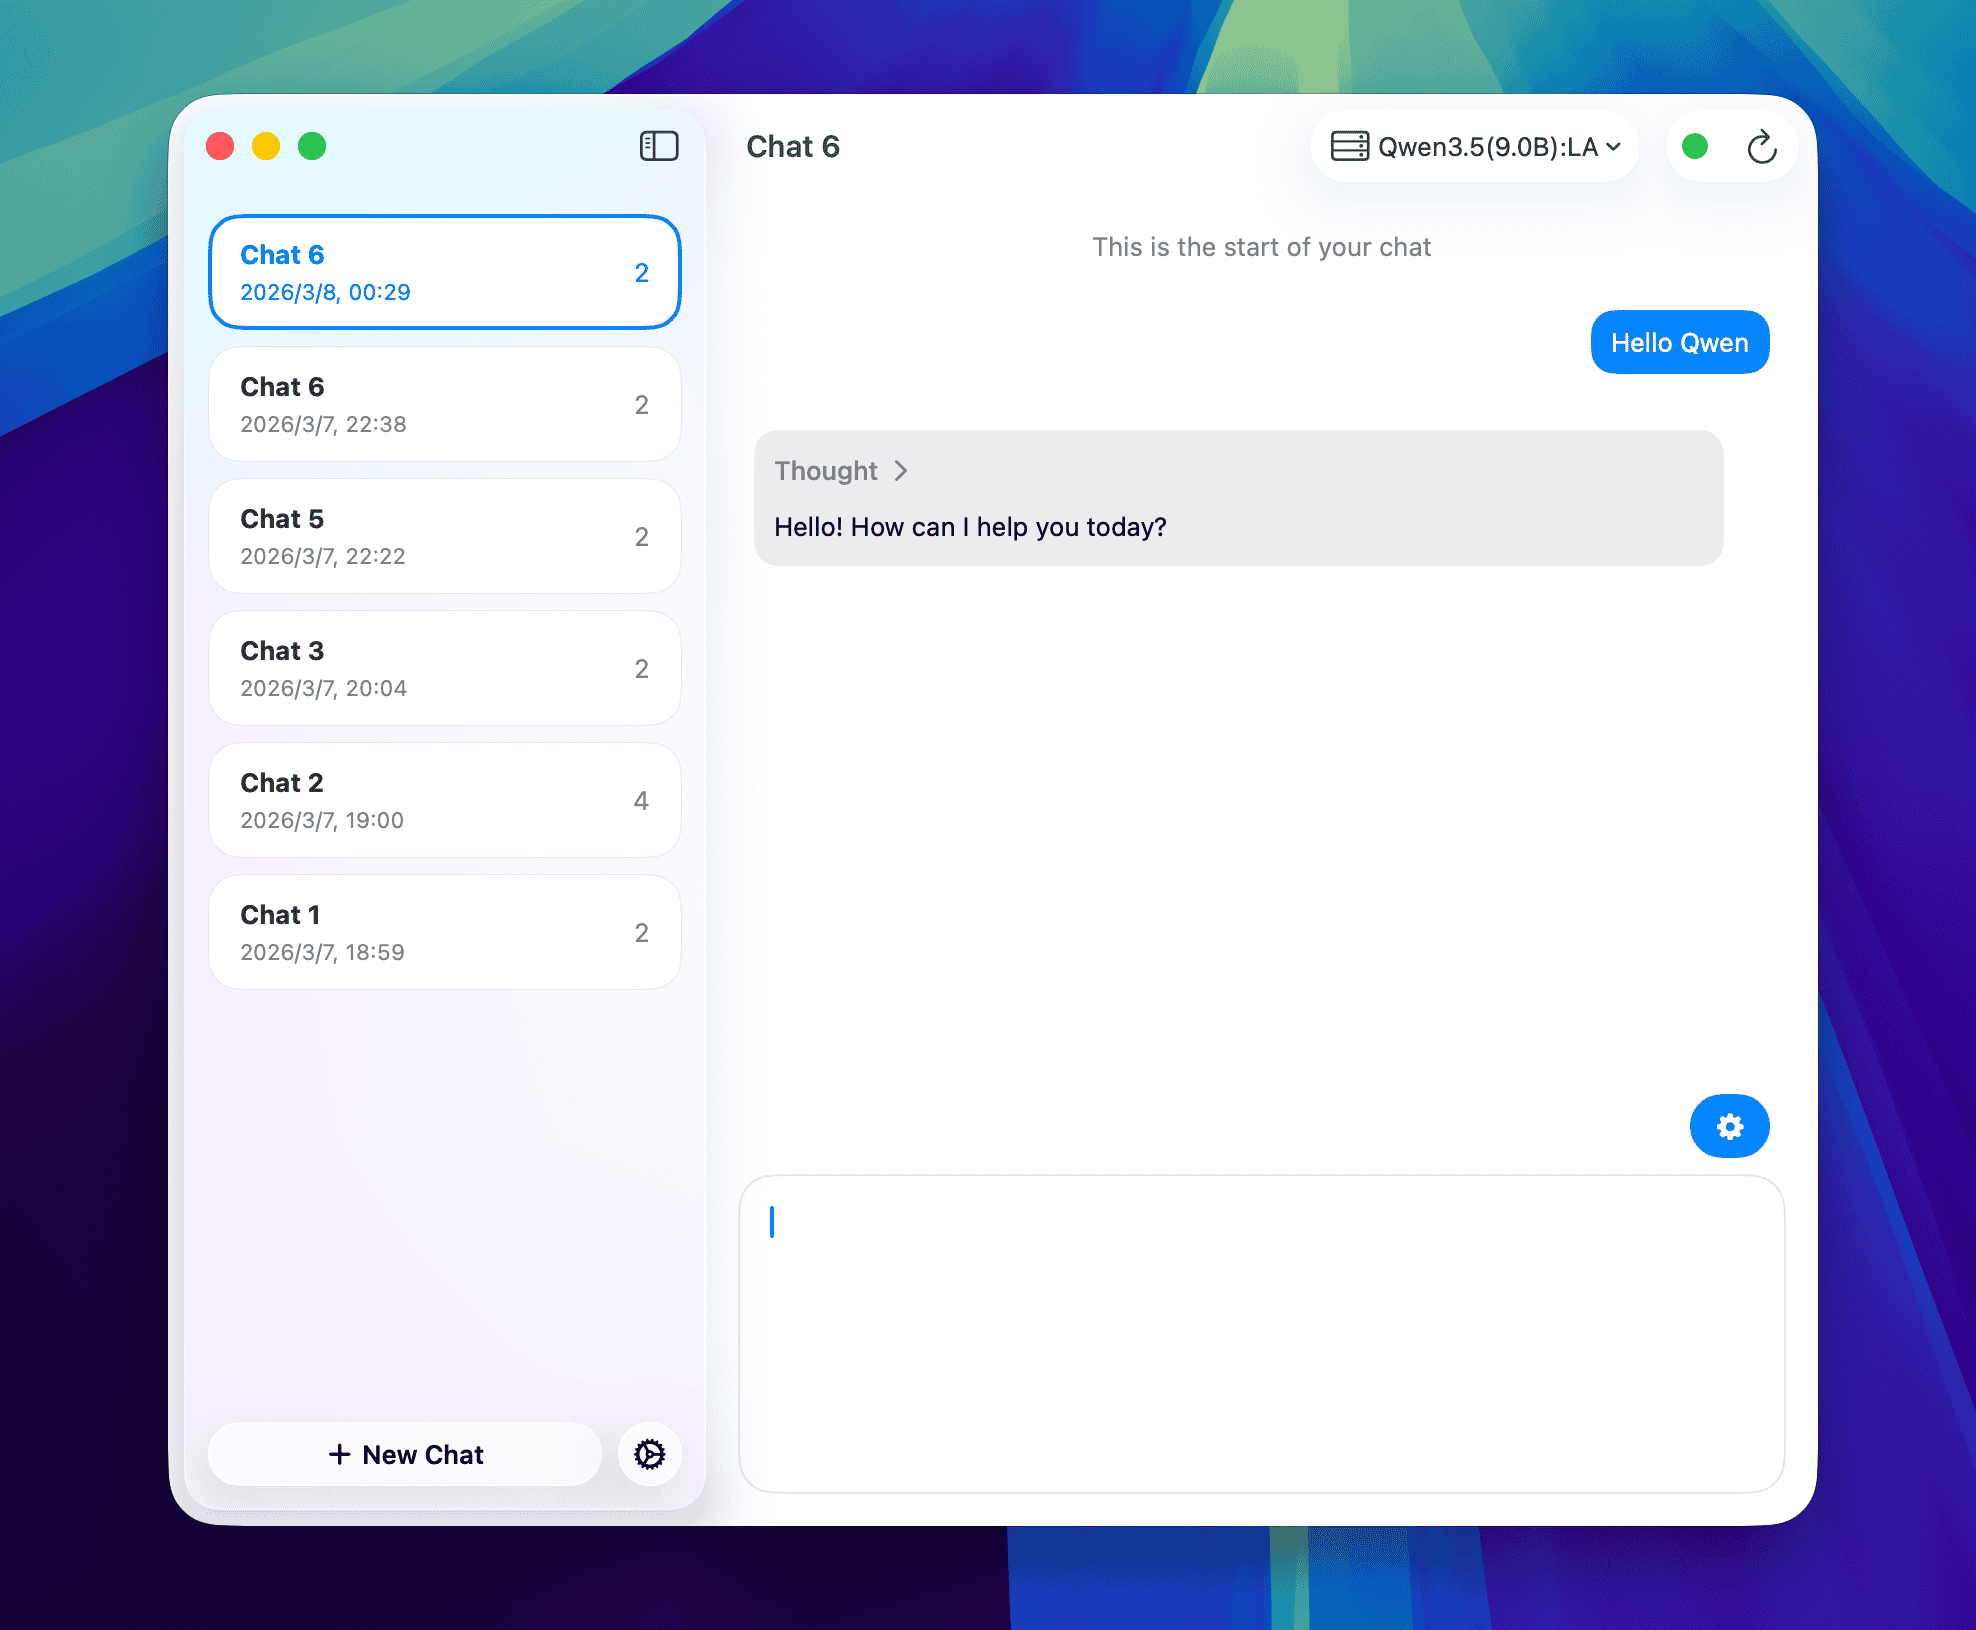
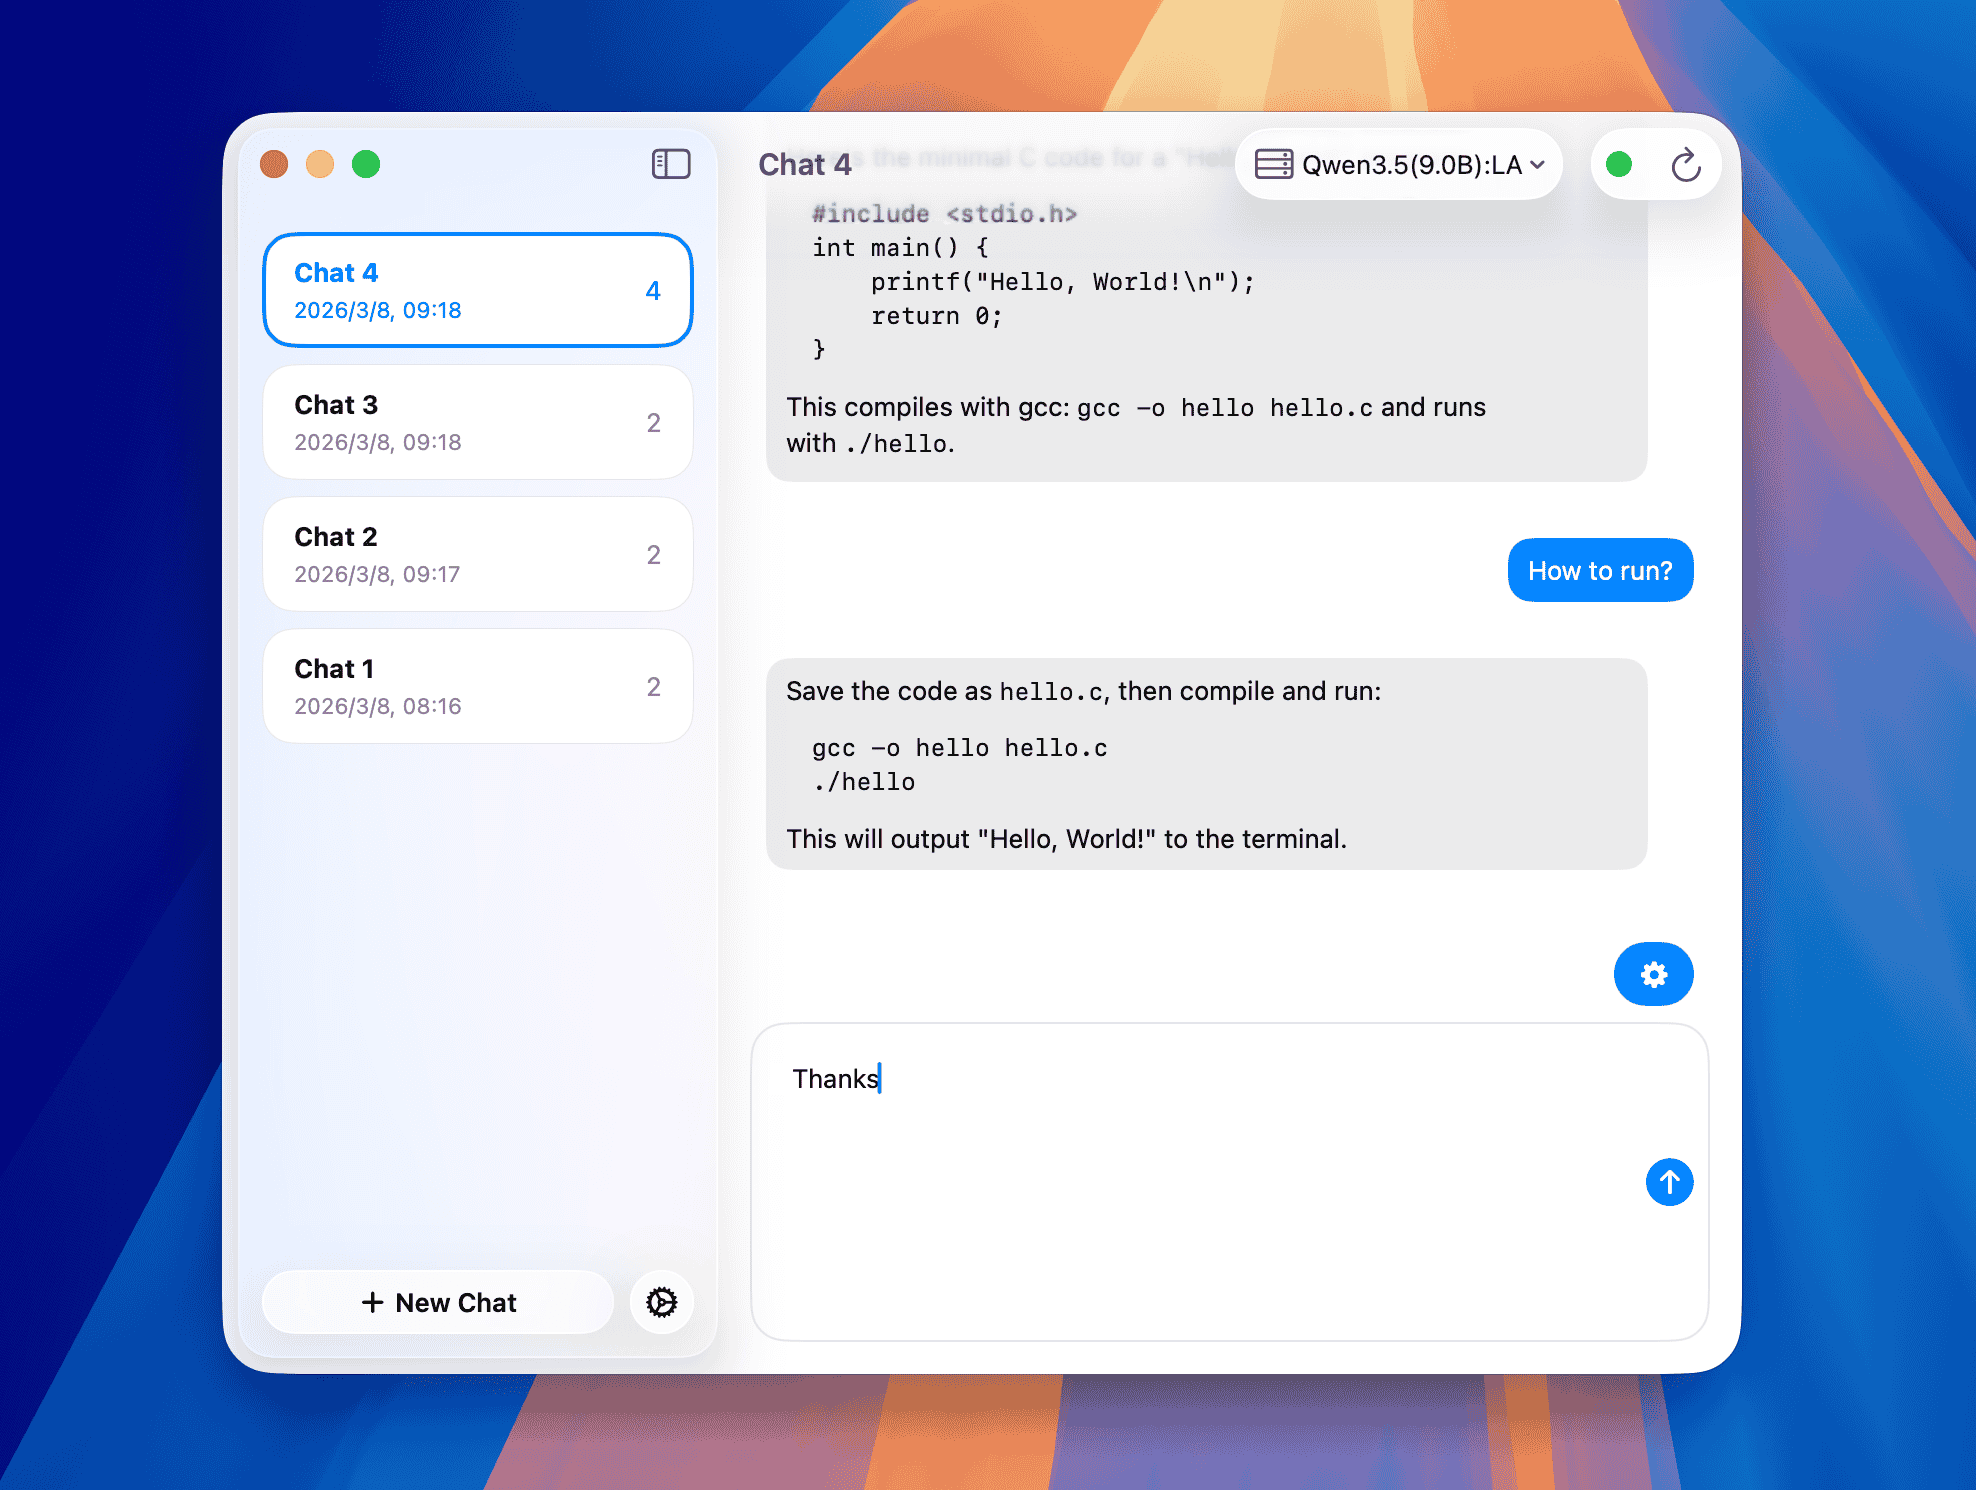
chore: ui update

diff --git a/OllamaChat/Views/ChatView/ChatView+MessageInput.swift b/OllamaChat/Views/ChatView/ChatView+MessageInput.swift
@@ -23,29 +23,6 @@ extension ChatView {
                 }
                 .disabled(viewModel.waitingResponse || viewModel.requiresModelSelectionOverlay)
                 .focused($promptFieldIsFocused)
-                .overlay(alignment: .trailing) {
-                    ZStack {
-                        if allowSubmitNewMessage
-                            && !viewModel.requiresModelSelectionOverlay
-                        {
-                            Button {
-                                viewModel.send()
-                                promptFieldIsFocused = false
-                            } label: {
-                                Image(systemName: "arrow.up.circle.fill")
-                                    .font(.system(size: 24))
-                                    .frame(width: 40, height: 40)
-                                    .foregroundStyle(.blue)
-                                    .contentShape(Rectangle())
-                            }
-                            .buttonStyle(.plain)
-                            .keyboardShortcut(.return, modifiers: .command)
-                            .transition(.scale)
-                            .help("⌘ + Return")
-                        }
-                    }
-                }
-                .animation(.smooth(duration: 0.3), value: allowSubmitNewMessage)
                 .onChange(of: viewModel.waitingResponse) { newValue in
                     if newValue == false, !viewModel.requiresModelSelectionOverlay {
                         promptFieldIsFocused = true
@@ -56,7 +33,35 @@ extension ChatView {
                 missingModelOverlay
             }
         }
-        .modifier(BorderDecoratedStyleModifier())
+        .modifier(
+            BorderDecoratedStyleModifier(
+                paddingV: 16.variable(os26: 20),
+                paddingH: 12.variable(os26: 16)
+            )
+        )
+        .overlay(alignment: .trailing) {
+            ZStack {
+                if allowSubmitNewMessage
+                    && !viewModel.requiresModelSelectionOverlay
+                {
+                    Button {
+                        viewModel.send()
+                        promptFieldIsFocused = false
+                    } label: {
+                        Image(systemName: "arrow.up.circle.fill")
+                            .font(.system(size: 24))
+                            .frame(width: 40, height: 40)
+                            .foregroundStyle(.blue)
+                            .contentShape(Rectangle())
+                    }
+                    .buttonStyle(.plain)
+                    .keyboardShortcut(.return, modifiers: .command)
+                    .transition(.scale)
+                    .help("⌘ + Return")
+                }
+            }
+            .animation(.smooth(duration: 0.3), value: allowSubmitNewMessage)
+        }
         .onChange(of: viewModel.requiresModelSelectionOverlay) { requiresOverlay in
             promptFieldIsFocused = !requiresOverlay && !viewModel.waitingResponse
         }

diff --git a/OllamaChat/Views/Common/ModelEditingView.swift b/OllamaChat/Views/Common/ModelEditingView.swift
@@ -87,26 +87,21 @@ struct ModelEditingView: View {
                 TextField("", value: $chatConfiguration.options.repeatLastN, format: .number)
             }
             
-            SettingsSectionHeader("Advanced Settings")
-            
-            VStack(alignment: .leading, spacing: 12) {
-                LabeledContent("Context Window") {
-                    TextField("", value: $chatConfiguration.options.numCtx, format: .number)
-                }
-                
-                LabeledContent("Max tokens to predict") {
-                    TextField("", value: $chatConfiguration.options.numPredict, format: .number)
-                }
-                
-                LabeledContent("Top K (\(chatConfiguration.options.topK))") {
-                    TextField("", value: $chatConfiguration.options.topK, format: .number)
-                }
-                
-                LabeledContent("Min P (\(chatConfiguration.options.minP, specifier: "%.2f"))") {
-                    Slider(value: $chatConfiguration.options.minP, in: 0...1, step: 0.05)
-                }
+            LabeledContent("Context Window") {
+                TextField("", value: $chatConfiguration.options.numCtx, format: .number)
             }
-            .maxWidth(alignment: .leading)
+            
+            LabeledContent("Max tokens to predict") {
+                TextField("", value: $chatConfiguration.options.numPredict, format: .number)
+            }
+            
+            LabeledContent("Top K (\(chatConfiguration.options.topK))") {
+                TextField("", value: $chatConfiguration.options.topK, format: .number)
+            }
+            
+            LabeledContent("Min P (\(chatConfiguration.options.minP, specifier: "%.2f"))") {
+                Slider(value: $chatConfiguration.options.minP, in: 0...1, step: 0.05)
+            }
         }
         .labeledContentStyle(.settings)
         .maxWidth()

diff --git a/OllamaChat/Models/ChatConfiguration.swift b/OllamaChat/Models/ChatConfiguration.swift
@@ -11,10 +11,10 @@ import Foundation
 
 struct ChatConfiguration: Codable {
     /// Controls Ollama's `think` request behavior when supported by the selected model. Default: `automatic`.
-    var think: OllamaThinkMode = .automatic
+    var think: OllamaThinkMode = .disabled
     var options: ChatOptions = .defaultValue
 
-    init(think: OllamaThinkMode = .automatic, options: ChatOptions = .defaultValue) {
+    init(think: OllamaThinkMode = .disabled, options: ChatOptions = .defaultValue) {
         self.think = think
         self.options = options
     }
